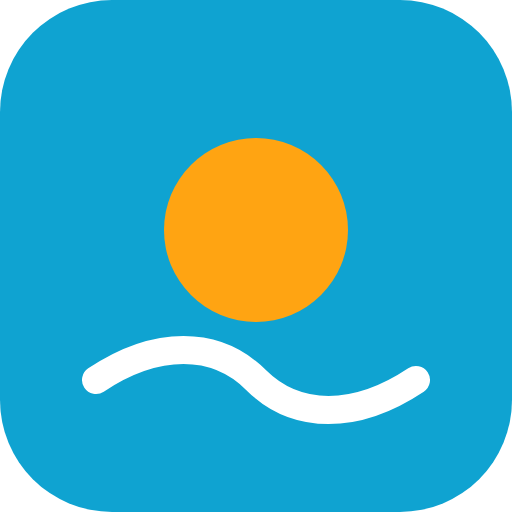
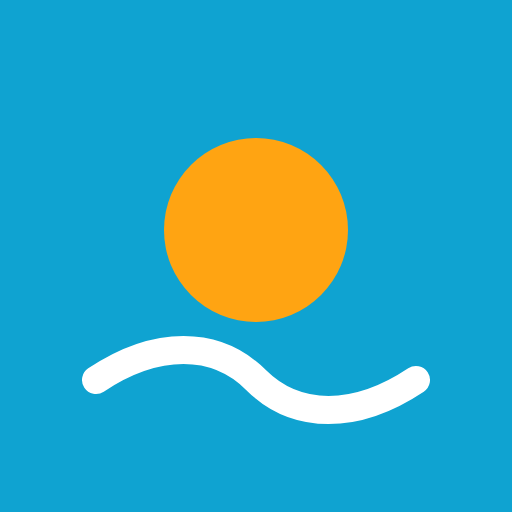
Icône de l'appli pleine (sans cadre blanc sur Mac), version maskable
Claude-Session: https://claude.ai/code/session_01HqoZnoy296x3mkQFiTUJVs

diff --git a/sw.js b/sw.js
@@ -1,5 +1,5 @@
 // Garde l'appli disponible hors connexion (les données en direct restent en cache côté page).
-const CACHE = "mon-quotidien-v71";
+const CACHE = "mon-quotidien-v72";
 const SHELL = ["./", "index.html", "manifest.webmanifest", "icon.svg", "apple-touch-icon.png", "jsbarcode.min.js", "dhikr.json"];
 self.addEventListener("install", e => e.waitUntil(caches.open(CACHE).then(c => c.addAll(SHELL)).then(() => self.skipWaiting())));
 self.addEventListener("activate", e => e.waitUntil(caches.keys().then(ks => Promise.all(ks.filter(k => k !== CACHE).map(k => caches.delete(k)))).then(() => self.clients.claim())));
